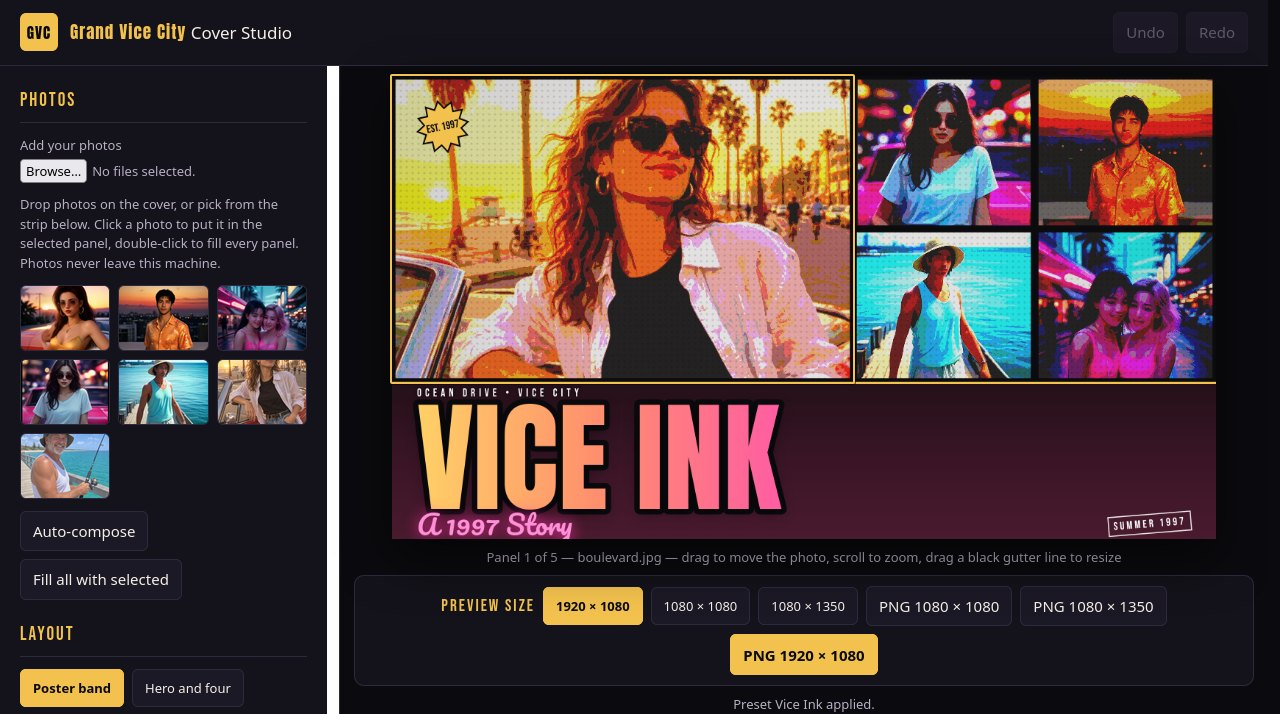
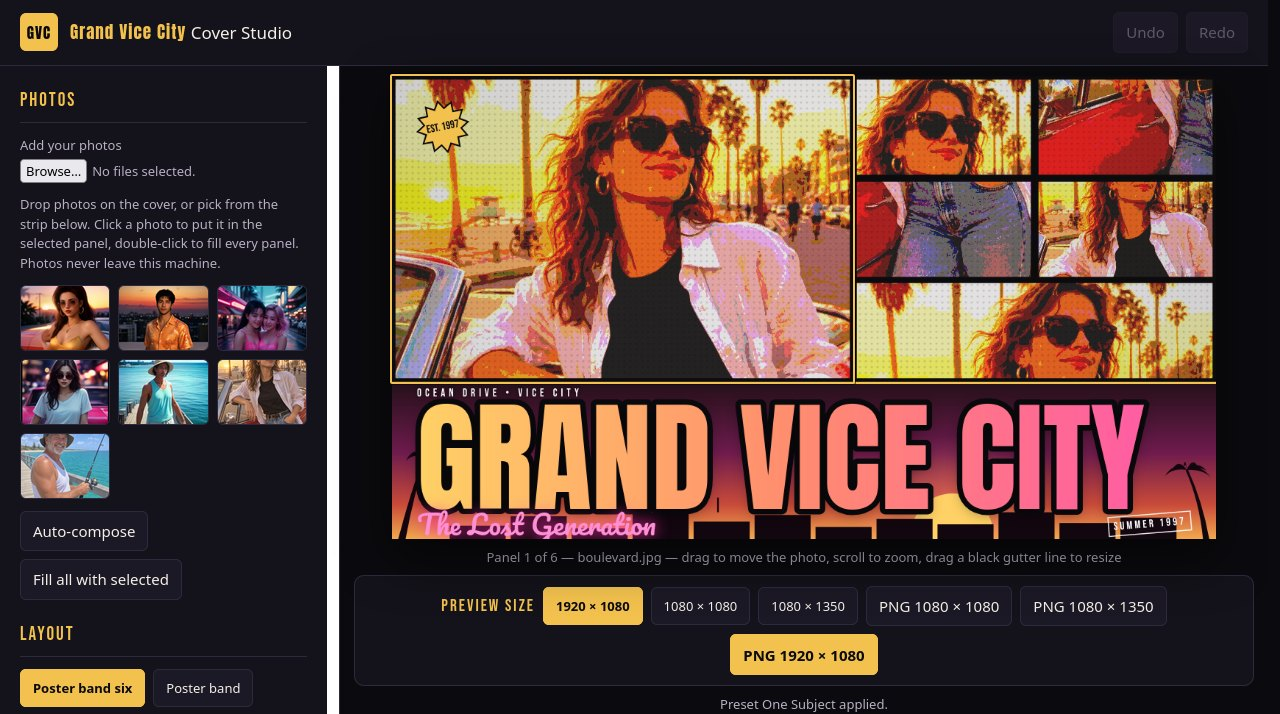
v3: One Subject preset, 6-panel band layout, sunset title band, warmer pier grade
- presets: new One Subject preset first (boot default) — the boulevard
  heroine in all 6 panels, same photo, different crops/zooms (hero, face
  close-up, red-car detail, denim detail, mid figure, wide face strip),
  ala #2 SUN HEIST; no second person anywhere
- layouts: new poster-band-six layout — hero + 4 small panels + a wide
  sunset strip, band stays 34%, composition stays airy (ala #1's 9 panels)
- lettering: title band is now a designed sunset scene — magenta-to-gold
  gradient sky, low sun half-hidden behind a procedural skyline, palm
  silhouettes at the band edges (ala #3's title block); sky top stop
  follows each grade's band colours
- grades/cover: golden-vice wash 0.18 -> 0.30 + a second warm soft-light
  pass, so daylight-blue panels (the pier) join the sunset palette
  instead of splitting it; classic-1997 wash 0.15 -> 0.20
- shots: all four screenshots now show the One Subject cover (shot 4 in
  Poster Ink); exports verified 1080x1080 / 1080x1350 / 1920x1080 exact

Changed region(s): [[0.2812, 0.0924, 0.9688, 0.7703], [0.5625, 0.9552, 0.6875, 1.0], [0.0938, 0.9244, 0.1875, 1.0]]

diff --git a/app/src/lettering.js b/app/src/lettering.js
@@ -64,6 +64,87 @@ function starburst(ctx, cx, cy, rOuter, rInner, points) {
   ctx.closePath();
 }
 
+// v3: the band is a designed sunset scene, not a flat fill — a magenta to
+// gold gradient sky, a low sun half-hidden behind a procedural skyline, and
+// two palm silhouettes at the band's edges (ala #3 SUNSET BOULEVARD's title
+// block). The sky's top stop comes from the grade's band colours so each
+// grade keeps its identity; the silhouettes stay dark and low so the bright
+// gradient title on top keeps full contrast.
+function drawPalm(ctx, x, baseY, h, lean) {
+  const crownX = x + lean * h * 0.28;
+  const crownY = baseY - h;
+  ctx.save();
+  ctx.fillStyle = '#12060f';
+  // Trunk: a tapered quad strip leaning toward the crown.
+  const w0 = Math.max(3, h * 0.045);
+  ctx.beginPath();
+  ctx.moveTo(x - w0, baseY);
+  ctx.quadraticCurveTo(x + lean * h * 0.1, baseY - h * 0.55, crownX - w0 * 0.4, crownY);
+  ctx.lineTo(crownX + w0 * 0.4, crownY);
+  ctx.quadraticCurveTo(x + lean * h * 0.1 + w0, baseY - h * 0.55, x + w0, baseY);
+  ctx.closePath();
+  ctx.fill();
+  // Fronds: 6 drooping blades fanning out of the crown.
+  for (let i = 0; i < 6; i += 1) {
+    const a = (-Math.PI * 0.08) - (i * Math.PI) / 7.5 + (lean > 0 ? 0.15 : -0.15);
+    const len = h * (0.52 - Math.abs(i - 2.5) * 0.05);
+    const tipX = crownX + Math.cos(a) * len;
+    const tipY = crownY + Math.sin(a) * len * 0.55 + h * 0.22;
+    const midX = crownX + Math.cos(a) * len * 0.55;
+    const midY = crownY + Math.sin(a) * len * 0.3 - h * 0.06;
+    ctx.beginPath();
+    ctx.moveTo(crownX, crownY);
+    ctx.quadraticCurveTo(midX, midY, tipX, tipY);
+    ctx.quadraticCurveTo(midX + Math.cos(a + 0.5) * len * 0.18, midY + h * 0.1, crownX, crownY);
+    ctx.closePath();
+    ctx.fill();
+  }
+  ctx.restore();
+}
+
+function drawBandBackdrop(ctx, W, bandY, bandH, grade) {
+  const bandColors = grade.band || ['#241019', '#3a1526', '#4a1a2e'];
+  const sky = ctx.createLinearGradient(0, bandY, 0, bandY + bandH);
+  sky.addColorStop(0, bandColors[0]);
+  sky.addColorStop(0.45, '#6e1b4d');
+  sky.addColorStop(0.78, '#c94b3a');
+  sky.addColorStop(1, '#f2a94e');
+  ctx.save();
+  ctx.fillStyle = sky;
+  ctx.fillRect(0, bandY, W, bandH);
+  // Low sun, half-hidden behind the skyline at the band's bottom edge.
+  const sunX = W * 0.68;
+  const sunY = bandY + bandH * 0.97;
+  const sunR = bandH * 0.26;
+  const glow = ctx.createRadialGradient(sunX, sunY, 0, sunX, sunY, sunR * 2.4);
+  glow.addColorStop(0, 'rgba(255,214,102,0.8)');
+  glow.addColorStop(0.45, 'rgba(255,142,110,0.32)');
+  glow.addColorStop(1, 'rgba(255,142,110,0)');
+  ctx.fillStyle = glow;
+  ctx.fillRect(sunX - sunR * 2.4, sunY - sunR * 2.4, sunR * 4.8, sunR * 4.8);
+  ctx.fillStyle = '#ffd166';
+  ctx.beginPath();
+  ctx.arc(sunX, sunY, sunR, 0, Math.PI * 2);
+  ctx.fill();
+  // Skyline strip along the bottom: varied rooflines + one antenna.
+  const skyH = bandH * 0.17;
+  const skyY = bandY + bandH - skyH;
+  ctx.fillStyle = '#12060f';
+  let bx = W * 0.07;
+  const blocks = [0.5, 0.85, 0.4, 1, 0.65, 0.9, 0.45, 0.75, 0.55, 1, 0.6, 0.8];
+  blocks.forEach((f, i) => {
+    const bw = W * 0.068;
+    const bh = skyH * f;
+    ctx.fillRect(bx, skyY + (skyH - bh), bw, bh);
+    if (i === 4) ctx.fillRect(bx + bw * 0.42, skyY - skyH * 0.55, Math.max(2, W * 0.002), skyH * 0.55);
+    bx += bw + W * 0.006;
+  });
+  // Palms at the far edges, crowns low so fronds frame — never cover — the title.
+  drawPalm(ctx, W * 0.012, bandY + bandH, bandH * 0.52, 1);
+  drawPalm(ctx, W * 0.988, bandY + bandH, bandH * 0.44, -1);
+  ctx.restore();
+}
+
 function drawTitle(ctx, title, titleFace, size, x, y, maxWidth, colors) {
   ctx.save();
   ctx.textAlign = 'left';
@@ -99,12 +180,10 @@ export function drawLettering(ctx, W, H, state) {
     // --- dedicated title band: panels end above it, type lives inside it.
     const bandH = Math.round(H * layout.band);
     const bandY = H - bandH;
-    const bandColors = grade.band || ['#241019', '#3a1526', '#4a1a2e'];
-    const bg = ctx.createLinearGradient(0, bandY, 0, H);
-    bandColors.forEach((c, i) => bg.addColorStop(bandColors.length === 1 ? 0 : i / (bandColors.length - 1), c));
+    // v3: the band is a sunset scene (gradient + sun + skyline + palms),
+    // not the flat gradient fill v2 used — see drawBandBackdrop above.
     ctx.save();
-    ctx.fillStyle = bg;
-    ctx.fillRect(0, bandY, W, bandH);
+    drawBandBackdrop(ctx, W, bandY, bandH, grade);
     ctx.fillStyle = '#f2c14e';
     ctx.fillRect(0, bandY, W, Math.max(2, Math.round(H * 0.004)));
     ctx.restore();

diff --git a/app/src/presets.js b/app/src/presets.js
@@ -7,7 +7,34 @@
 // summer-1997 is fixed (title is GRAND VICE CITY in the band, no more
 // giant date covering mouths); neon-nights and pier-lights now put a real
 // night photo in the hero panel, so the neon grade matches the hero.
+// v3: `one-subject` is the first preset (and the boot default) — ONE woman,
+// the boulevard heroine, in all six panels, ala #2 SUN HEIST (one man +
+// one Porsche in 5 panels). Same photo, different crops/zooms: hero,
+// face close-up, red-car detail, denim/belt detail, mid figure, wide face strip.
+// No second person anywhere, so the cover reads as one story, one palette.
+// v3 tuning: panel 4 is the denim detail (the palms crop duplicated the
+// face close-up), panel 6's oy keeps her eyes in the wide strip in both
+// landscape and square aspects (oy -0.95 showed only the top of her head).
 export const PRESETS = [
+  {
+    id: 'one-subject',
+    name: 'One Subject',
+    layout: 'poster-band-six',
+    grade: 'golden-vice',
+    title: 'GRAND VICE CITY',
+    subtitle: 'The Lost Generation',
+    location: 'Ocean Drive • Vice City',
+    badge: 'EST. 1997',
+    stamp: 'SUMMER 1997',
+    photos: [
+      { photo: 'boulevard.jpg', oy: -0.65 },
+      { photo: 'boulevard.jpg', zoom: 2.0, ox: 0.35, oy: -0.8 },
+      { photo: 'boulevard.jpg', zoom: 1.7, ox: -0.65, oy: 0.85 },
+      { photo: 'boulevard.jpg', zoom: 1.7, ox: 0.8, oy: 1.0 },
+      { photo: 'boulevard.jpg', zoom: 1.25, ox: 0.15, oy: -0.35 },
+      { photo: 'boulevard.jpg', zoom: 1.1, ox: -0.3, oy: -0.79 },
+    ],
+  },
   {
     id: 'golden-boulevard',
     name: 'Golden Boulevard',

diff --git a/app/src/grades.js b/app/src/grades.js
@@ -6,19 +6,23 @@
 // `band` gradient for the dedicated title band. The wash + a stronger overlay
 // are what make five unrelated photos read as ONE graded cover instead of a
 // stock-photo collage — the gap that lost v1 every local-judge duel.
+// v3: golden-vice's wash is stronger (0.18 -> 0.30, overlay 0.30 -> 0.34)
+// so daylight-blue panels (the pier) are pulled into the sunset palette
+// instead of splitting it — the last K1 gap from the v2 local judge.
+// classic-1997's wash rises slightly for the same reason.
 export const GRADES = {
   'golden-vice': {
     name: 'Golden Vice',
     blurb: 'Coral sunset, pastel pink, champagne gold, turquoise ocean.',
     filter: 'saturate(1.35) contrast(1.1) sepia(0.22) hue-rotate(-8deg) brightness(1.03)',
     overlay: ['#ffd166', '#ff8e6e', '#ff5da2'],
-    overlayAlpha: 0.3,
+    overlayAlpha: 0.34,
     overlayMode: 'overlay',
     vignette: 0.32,
     posterize: false,
     halftone: false,
     wash: '#ff9a5c',
-    washAlpha: 0.18,
+    washAlpha: 0.3,
     band: ['#241019', '#3a1526', '#4a1a2e'],
   },
   'neon-crime': {
@@ -46,7 +50,7 @@ export const GRADES = {
     posterize: false,
     halftone: false,
     wash: '#d8b878',
-    washAlpha: 0.15,
+    washAlpha: 0.2,
     band: ['#2a2118', '#3a2c1c', '#4a3822'],
   },
   'poster-ink': {

diff --git a/app/src/layouts.js b/app/src/layouts.js
@@ -5,7 +5,22 @@
 // v2: `poster-band` reserves the bottom 34% of the cover for the dedicated
 // title band (lettering.js draws the band + title there), so the giant title
 // never covers a face or a hero's body — the layout the default preset uses.
+// v3: `poster-band-six` adds a sixth panel (a wide sunset strip under the
+// four small panels) so the cover reads denser, ala #1's 9-panel HEATWAVE,
+// without crowding: the hero keeps its 0.56 width and the band stays 34%.
 export const LAYOUTS = {
+  'poster-band-six': {
+    name: 'Poster band six',
+    band: 0.34,
+    panels: [
+      { x: 0, y: 0, w: 0.56, h: 0.66 },
+      { x: 0.56, y: 0, w: 0.22, h: 0.22 },
+      { x: 0.78, y: 0, w: 0.22, h: 0.22 },
+      { x: 0.56, y: 0.22, w: 0.22, h: 0.22 },
+      { x: 0.78, y: 0.22, w: 0.22, h: 0.22 },
+      { x: 0.56, y: 0.44, w: 0.44, h: 0.22 },
+    ],
+  },
   'poster-band': {
     name: 'Poster band',
     band: 0.34,

diff --git a/app/style.css b/app/style.css
@@ -1,6 +1,8 @@
 /* Hallmark stamp: theme custom · genre atmospheric · job: make a cover · signature: the live multi-panel cover · sweep: sloplint after build */
 /* Critique: dark luxury editor, sunset-gold signal, Anton display + Bebas labels; the cover itself is the hero. */
 /* v2: editor screenshots fill the frame — bigger preview, tighter stage. */
+/* v3: no editor chrome changes — the v3 cover (6 panels, sunset band) is
+ * drawn entirely on the canvas, so the stylesheet only gains this note. */
 @font-face { font-family: Anton; src: url("./fonts/Anton-Regular.ttf") format("truetype"); font-display: swap; }
 @font-face { font-family: Pacifico; src: url("./fonts/Pacifico-Regular.ttf") format("truetype"); font-display: swap; }
 @font-face { font-family: "Bebas Neue"; src: url("./fonts/BebasNeue-Regular.ttf") format("truetype"); font-display: swap; }

diff --git a/app/src/cover.js b/app/src/cover.js
@@ -124,6 +124,17 @@ export function drawCover(ctx, W, H, state, images) {
       ctx.fillRect(x, y, w, h);
       ctx.restore();
     }
+    // v3: a second warm pass ('soft-light') pushes daylight-blue panels
+    // (the pier: blue sky, turquoise sea) further toward the sunset
+    // palette without flattening the photo — the v2 wash alone left it blue.
+    if (grade.wash && grade.washAlpha && img) {
+      ctx.save();
+      ctx.globalCompositeOperation = 'soft-light';
+      ctx.globalAlpha = grade.washAlpha * 0.9;
+      ctx.fillStyle = grade.wash;
+      ctx.fillRect(x, y, w, h);
+      ctx.restore();
+    }
     if (grade.posterize && img) posterizeRegion(ctx, Math.round(x), Math.round(y), Math.round(w), Math.round(h));
     if (grade.halftone) {
       ctx.globalAlpha = grade.halftoneAlpha || 0.1;

diff --git a/main.ts b/main.ts
@@ -7,6 +7,10 @@
 // the judge reads, with the vendored make.fun library.
 // v2: the cover uses a dedicated title band + one unified grade per cover;
 // the dossier contract is unchanged (byte-identical across runs).
+// v3: the cover is the One Subject preset (6 panels, one heroine) with a
+// sunset title band (gradient + sun + skyline + palm silhouettes) and a
+// stronger golden-vice wash so daylight-blue panels join the palette;
+// the dossier contract is unchanged (byte-identical across runs).
 //
 // Serve it locally with `node serve.ts`, then open http://localhost:8080.
 // Outside the grader's container, MAKEFUN_OUTPUT_DIR stands in for /output:

diff --git a/app/src/main.js b/app/src/main.js
@@ -1,6 +1,9 @@
 // main.js — wires Grand Vice City Cover Studio: state, undo/redo history,
 // layout/grade/preset controls, photo upload + filmstrip, per-panel drag,
 // crop and zoom, gutter-line panel resizing, adjustments, and PNG export.
+// v3: boot applies PRESETS[0], which is now the One Subject preset
+// (poster-band-six, six panels of the same heroine) — the studio opens on
+// its strongest cover.
 import { drawCover } from './cover.js';
 import { GRADES, GRADE_IDS } from './grades.js';
 import { LAYOUTS, LAYOUT_IDS, freshRects } from './layouts.js';

diff --git a/app/src/shots.js b/app/src/shots.js
@@ -4,6 +4,8 @@
 // main.js once the scene has painted.
 // v2: ?grade= overrides the preset's grade (A/B a grade on the same cover),
 // and editor shots add body.shot-editor so the preview fills the frame.
+// v3: shot scenes now default to the One Subject preset — shot 1 (cover)
+// and shot 4 (editor, Poster Ink) both prove the v3 cover in the browser.
 export async function runShot(shot, query, api) {
   const preset = query.get('preset');
   if (preset) api.applyPresetById(preset);

diff --git a/serve.ts b/serve.ts
@@ -2,6 +2,8 @@
 // `node serve.ts` serves app/ on http://localhost:8080. Standard library
 // only; refuses any path outside app/.
 // v2: pass --port 8081 for the Selenium screenshot runs (sel-shoot.py).
+// v3: same server, same port — the v3 screenshot runs (sel-shoot-v3.py)
+// still serve app/ on 8081.
 import { createReadStream, statSync } from 'node:fs';
 import { createServer } from 'node:http';
 import { extname, join, normalize, resolve, sep } from 'node:path';

diff --git a/app/src/export.js b/app/src/export.js
@@ -1,6 +1,8 @@
 // export.js — renders the cover at an exact post size and downloads it
 // as a PNG. Rendering is deterministic: same state, same bytes.
 // v2: rejects non-finite sizes instead of rendering a broken canvas.
+// v3: unchanged contract — the v3 cover (6 panels, sunset band backdrop)
+// exports through the same deterministic path, all three sizes.
 import { drawCover } from './cover.js';
 
 export const EXPORT_SIZES = [

diff --git a/app/index.html b/app/index.html
@@ -4,7 +4,7 @@
 <meta charset="utf-8">
 <meta name="viewport" content="width=device-width, initial-scale=1">
 <title>Grand Vice City — Cover Studio</title>
-<!-- v2: dedicated title band, unified grade, Poster Ink showcase -->
+<!-- v3: One Subject preset first, sunset title band with palm/skyline backdrop -->
 <link rel="stylesheet" href="./style.css">
 </head>
 <body>
